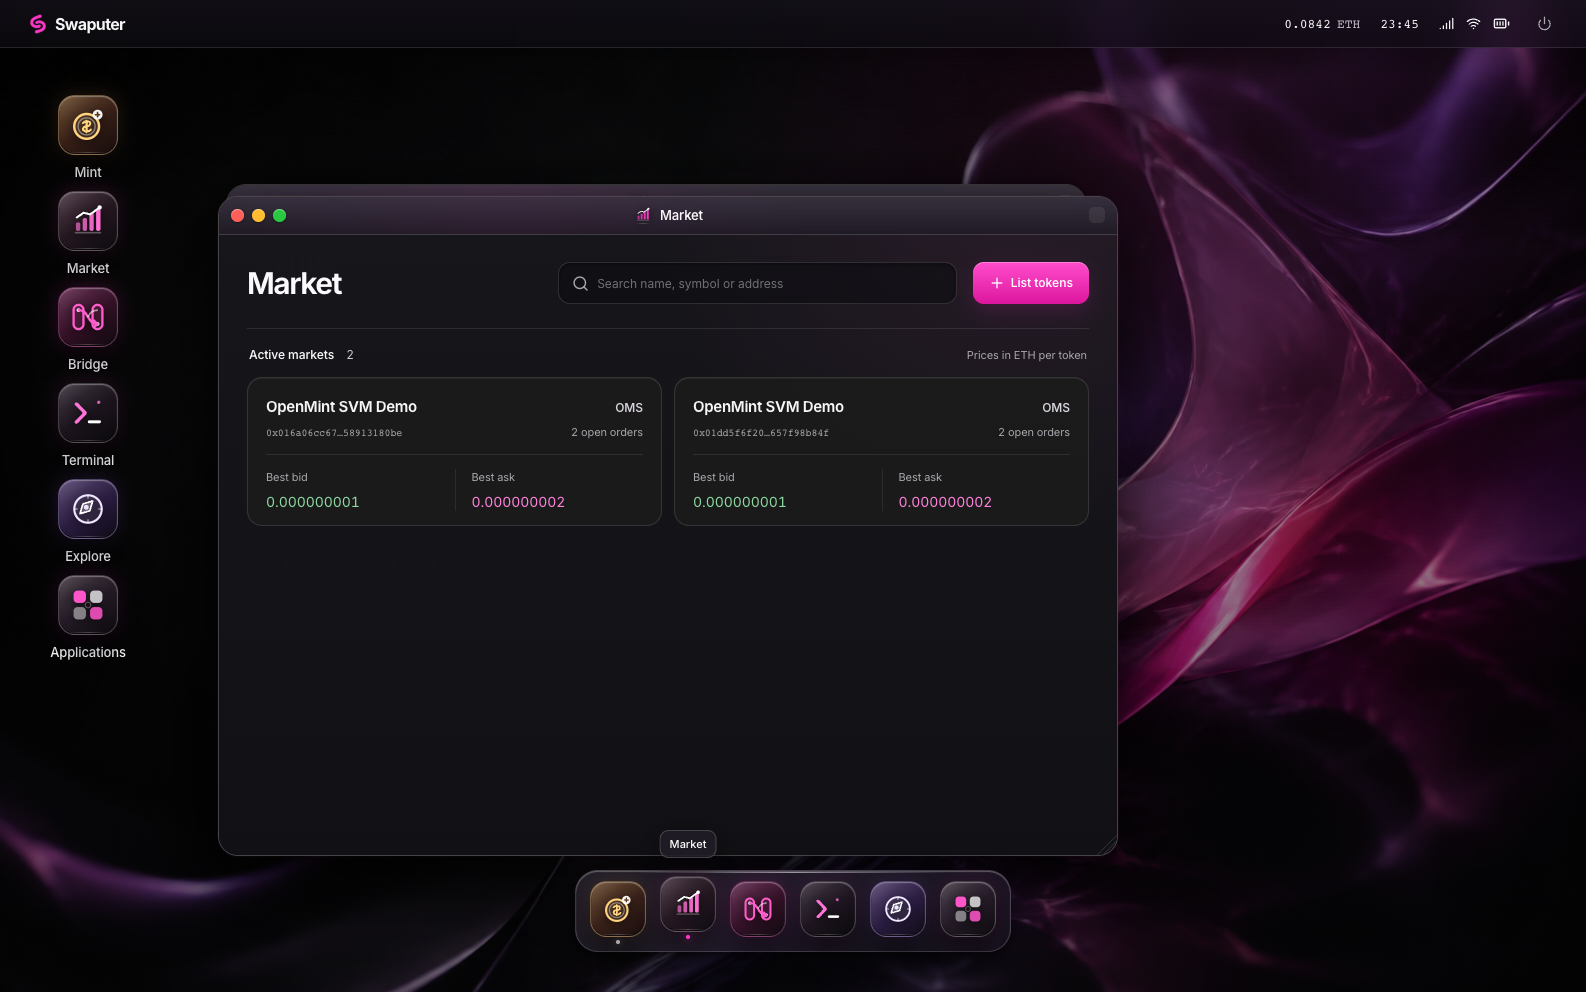
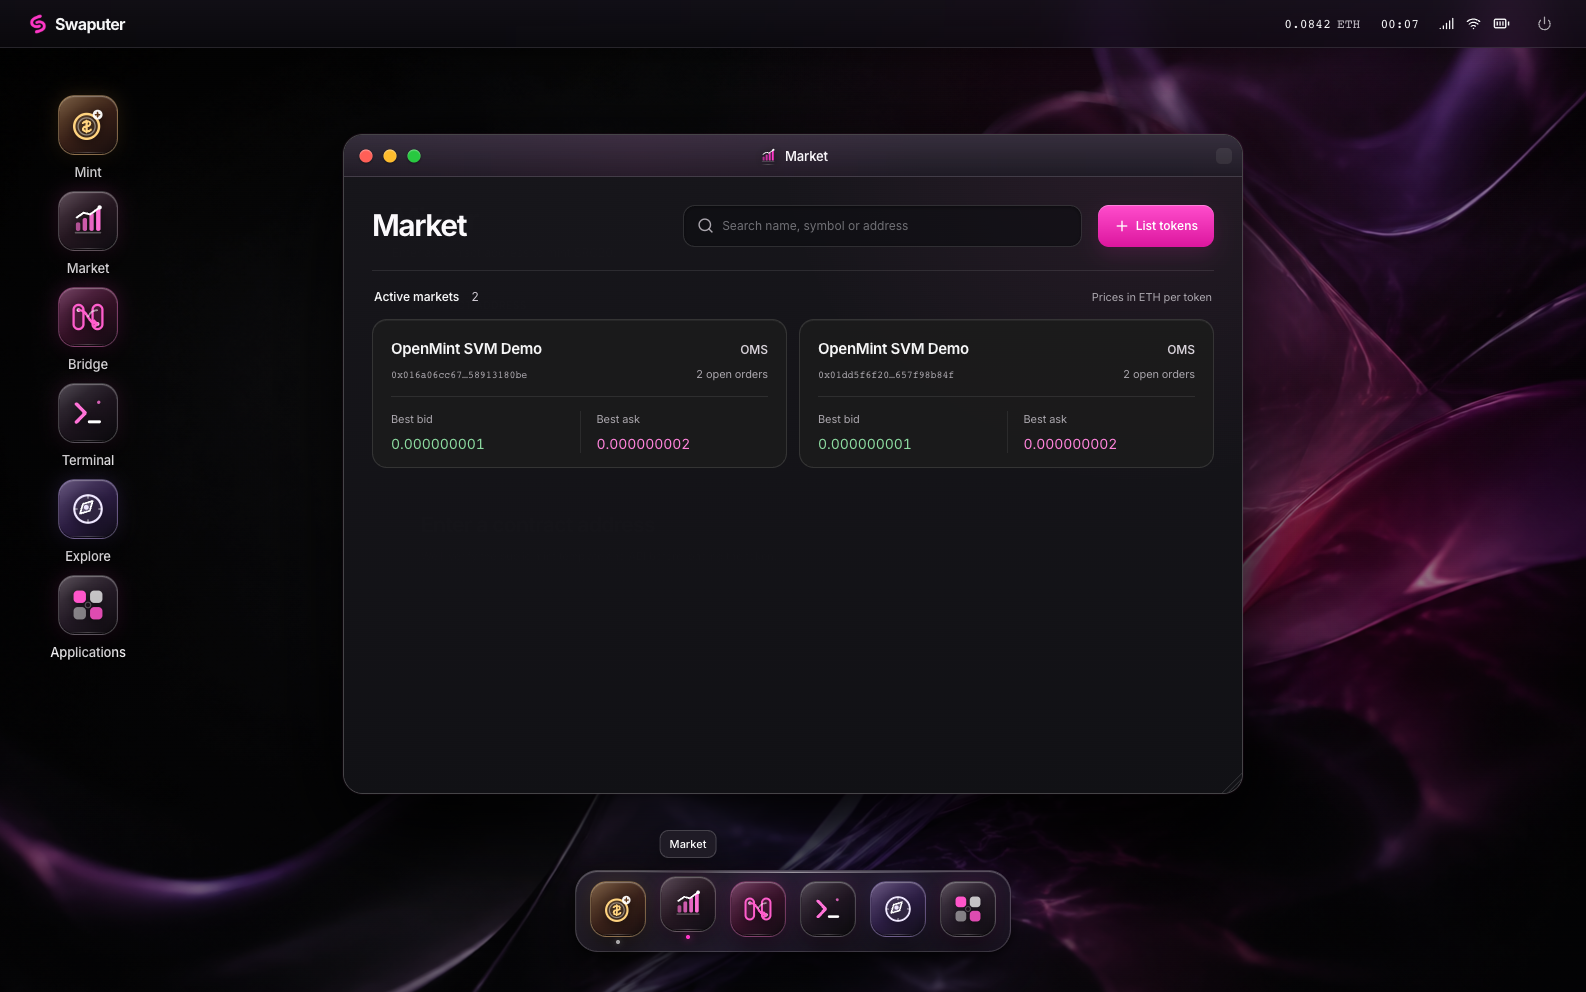
fix: center app windows and improve controls

diff --git a/src/components/AppWindow.vue b/src/components/AppWindow.vue
@@ -7,18 +7,21 @@ const props = defineProps<{ app: AppId; name: string; active: boolean; order: nu
 const emit = defineEmits<{ focus: []; close: []; minimize: [] }>();
 const preferredWidth: Record<AppId, number> = { mint: 860, market: 900, bridge: 860, terminal: 840, browser: 800 };
 const preferredHeight: Record<AppId, number> = { mint: 650, market: 660, bridge: 650, terminal: 620, browser: 620 };
-const width = ref(Math.min(preferredWidth[props.app], Math.max(580, window.innerWidth - 360)));
-const height = ref(Math.min(preferredHeight[props.app], window.innerHeight - 190));
-const x = ref(Math.max(144, (window.innerWidth - width.value) / 2 - 137) + props.index * 12);
-const y = ref(Math.max(54, window.innerHeight * .137) + props.index * 12);
+const desktopTop = 48;
+const desktopBottom = 112;
+const width = ref(Math.max(580, Math.min(preferredWidth[props.app], window.innerWidth - 48)));
+const height = ref(Math.max(340, Math.min(preferredHeight[props.app], window.innerHeight - desktopTop - desktopBottom)));
+const x = ref((window.innerWidth - width.value) / 2);
+// The window is positioned inside .os-desktop, whose origin already starts below the menu bar.
+const y = ref(Math.max(0, (window.innerHeight - desktopTop - desktopBottom - height.value) / 2));
 const maximized = ref(false);
 const frame = ref<HTMLElement>();
 function fitViewport() {
   if (window.innerWidth <= 760) return;
-  width.value = Math.max(580, Math.min(width.value, window.innerWidth - 24));
-  height.value = Math.max(340, Math.min(height.value, window.innerHeight - 160));
-  x.value = Math.max(0, Math.min(x.value, window.innerWidth - width.value - 12));
-  y.value = Math.max(0, Math.min(y.value, window.innerHeight - height.value - 130));
+  width.value = Math.max(580, Math.min(width.value, window.innerWidth - 48));
+  height.value = Math.max(340, Math.min(height.value, window.innerHeight - desktopTop - desktopBottom));
+  x.value = Math.max(24, Math.min(x.value, window.innerWidth - width.value - 24));
+  y.value = Math.max(0, Math.min(y.value, window.innerHeight - desktopTop - height.value - desktopBottom));
 }
 onMounted(() => { fitViewport(); window.addEventListener('resize', fitViewport); });
 onBeforeUnmount(() => window.removeEventListener('resize', fitViewport));
@@ -52,7 +55,7 @@ function nudge(event: KeyboardEvent) {
 <template>
   <section ref="frame" :class="['os-window', `os-window--${app}`, { 'is-active': active, 'is-maximized': maximized }]" :style="style" :aria-label="`${name} app`" @pointerdown="emit('focus')" @focusin="emit('focus')">
     <header class="os-window-titlebar" @pointerdown="start" @dblclick.self="maximized = !maximized" @keydown="nudge" tabindex="0" :aria-label="`${name} window. Alt and arrow keys to move.`">
-      <div class="os-window-controls"><button aria-label="Close app" class="control-close" @click="emit('close')"><X /></button><button aria-label="Minimize app" class="control-minimize" @click="emit('minimize')"><Minus /></button><button aria-label="Toggle maximize" class="control-maximize" @click="maximized = !maximized"><Maximize2 /></button></div>
+      <div class="os-window-controls"><button type="button" title="Close" aria-label="Close app" class="control-close" @pointerdown.stop @click.stop="emit('close')"><X /></button><button type="button" title="Minimize" aria-label="Minimize app" class="control-minimize" @pointerdown.stop @click.stop="emit('minimize')"><Minus /></button><button type="button" title="Maximize" aria-label="Toggle maximize" class="control-maximize" @pointerdown.stop @click.stop="maximized = !maximized"><Maximize2 /></button></div>
       <button class="os-mobile-back" aria-label="Home" @click="emit('minimize')"><ChevronLeft :size="20" />Home</button>
       <span class="os-window-name"><AppIcon :app="app" small />{{ name }}</span><span class="os-window-grip" aria-hidden="true"></span>
     </header>

diff --git a/src/desktop.css b/src/desktop.css
@@ -431,15 +431,17 @@ button:focus-visible,a:focus-visible { outline-color:#ff7ada;outline-offset:3px;
 .os-window { border:1px solid #ffffff29;border-radius:20px;background:#151419ed;box-shadow:0 28px 74px #000a,0 2px 9px #0008,inset 0 1px 0 #ffffff1d; }
 .os-window.is-active { border-color:#ffffff35;box-shadow:0 34px 90px #000c,0 0 0 1px #ff37c70e,inset 0 1px 0 #ffffff25; }
 .os-window.is-maximized { border-radius:18px; }
-.os-window-titlebar { background:linear-gradient(180deg,#332b3bc9,#211c27cf);border-bottom:1px solid #ffffff1a;backdrop-filter:blur(30px) saturate(1.45);-webkit-backdrop-filter:blur(30px) saturate(1.45); }
+.os-window-titlebar { height:42px;min-height:42px;padding-inline:10px;background:linear-gradient(180deg,#332b3bc9,#211c27cf);border-bottom:1px solid #ffffff1a;backdrop-filter:blur(30px) saturate(1.45);-webkit-backdrop-filter:blur(30px) saturate(1.45); }
 .os-window-titlebar:before { inset:0;background:linear-gradient(90deg,transparent,#ff37c713,transparent 65%),linear-gradient(180deg,#ffffff13,transparent);mask-image:none;opacity:1; }
-.os-window-controls { gap:8px;background:none;padding-right:9px; }
-.os-window-controls button { width:13px;height:13px;padding:0;border:0;border-radius:50%;box-shadow:inset 0 1px 1px #fff6,0 1px 3px #0008; }
-.os-window-controls button svg { opacity:0;width:9px;height:9px;color:#29070a; }
-.os-window-controls:hover button svg { opacity:.65; }
-.os-window-controls .control-close { background:#ff5f57; }
-.os-window-controls .control-minimize { background:#febc2e; }
-.os-window-controls .control-maximize { background:#28c840; }
+.os-window-controls { gap:0;background:none;padding-right:5px; }
+.os-window-controls button { position:relative;width:24px;height:24px;padding:0;border:0;border-radius:8px;background:transparent!important;box-shadow:none; }
+.os-window-controls button:before { content:'';position:absolute;left:50%;top:50%;width:13px;height:13px;transform:translate(-50%,-50%);border-radius:50%;box-shadow:inset 0 1px 1px #fff6,0 1px 3px #0008; }
+.os-window-controls button svg { position:relative;z-index:1;opacity:0;width:9px;height:9px;color:#29070a; }
+.os-window-controls:hover button svg,.os-window-controls button:focus-visible svg { opacity:.65; }
+.os-window-controls button:focus-visible { outline:2px solid #ffffffa8;outline-offset:0; }
+.os-window-controls .control-close:before { background:#ff5f57; }
+.os-window-controls .control-minimize:before { background:#febc2e; }
+.os-window-controls .control-maximize:before { background:#28c840; }
 .os-window-name { color:#f8f5f9;background:none;font:560 13px var(--font-sans);letter-spacing:-.015em; }
 .os-window-grip { border:0;border-radius:5px;background:#ffffff12; }
 .os-window-content { background:linear-gradient(180deg,#18171bec,#111115f5);scrollbar-color:#ffffff2d transparent; }

diff --git a/test/browser/computer.spec.ts b/test/browser/computer.spec.ts
@@ -140,9 +140,17 @@ test('Swaputer is static, Explore opens separately, and power off requires confi
   await expect(page.getByRole('button', { name: 'Power on and connect wallet' })).toBeVisible();
 });
 test('window moves, resizes, maximizes, closes and reopens', async ({ page }) => {
+  await page.emulateMedia({ reducedMotion: 'reduce' });
   await boot(page); await page.getByRole('button', { name: 'Open Mint', exact: true }).click();
   const frame = page.getByRole('region', { name: 'Mint app', exact: true });
   const before = await frame.boundingBox();
+  const viewport = page.viewportSize()!;
+  expect(Math.abs(before!.x + before!.width / 2 - viewport.width / 2)).toBeLessThanOrEqual(1);
+  const usableCenterY = 48 + (viewport.height - 48 - 112) / 2;
+  expect(Math.abs(before!.y + before!.height / 2 - usableCenterY)).toBeLessThanOrEqual(1);
+  const closeTarget = await frame.getByRole('button', { name: 'Close app', exact: true }).boundingBox();
+  expect(closeTarget!.width).toBeGreaterThanOrEqual(24);
+  expect(closeTarget!.height).toBeGreaterThanOrEqual(24);
   const bar = frame.locator('.os-window-titlebar');
   const b = (await bar.boundingBox())!;
   await page.mouse.move(b.x + 180, b.y + 20); await page.mouse.down(); await page.mouse.move(b.x + 220, b.y + 50); await page.mouse.up();
@@ -155,6 +163,9 @@ test('window moves, resizes, maximizes, closes and reopens', async ({ page }) =>
   await expect(frame).toHaveClass(/is-maximized/);
   await frame.getByRole('button', { name: 'Close app', exact: true }).click(); await expect(frame).toBeHidden();
   await page.getByRole('button', { name: 'Open Mint', exact: true }).click(); await expect(frame).toBeVisible();
+  const reopened = await frame.boundingBox();
+  expect(Math.abs(reopened!.x + reopened!.width / 2 - viewport.width / 2)).toBeLessThanOrEqual(1);
+  expect(Math.abs(reopened!.y + reopened!.height / 2 - usableCenterY)).toBeLessThanOrEqual(1);
 });
 
 test('Market navigation stays inside its App and explorer links are external', async ({ page }) => {

diff --git a/docs/tahoe-glass-design.md b/docs/tahoe-glass-design.md
@@ -39,6 +39,8 @@ The canonical brand mark is the exact `swaputer-mark.png` used by `explorer/apps
 ## Material rules
 
 - Menu bar, Dock, window chrome, wallet popover, application library, and confirmation dialogs use translucent dark glass with a restrained blur and a bright top-edge highlight.
+- Desktop app windows open centered within the usable area between the menu bar and Dock. Reopening an app restores this centered default rather than retaining a stale dragged position.
+- Window traffic lights retain a compact 13×13 visual dot while exposing a 24×24 pointer target. Pointer events stay local to each control so close, minimize, and maximize do not also trigger window dragging or focus handling.
 - Application content uses opaque or near-opaque graphite surfaces for contrast and transaction safety.
 - Corners are continuous and rounded; shadows are soft and layered rather than offset pixel blocks.
 - App icons are smooth SVG glyphs inside glass squircle tiles. The system does not use rasterized or crisp-edge pixel icons. The Applications view searches by app name and shows only each app's icon and name.
